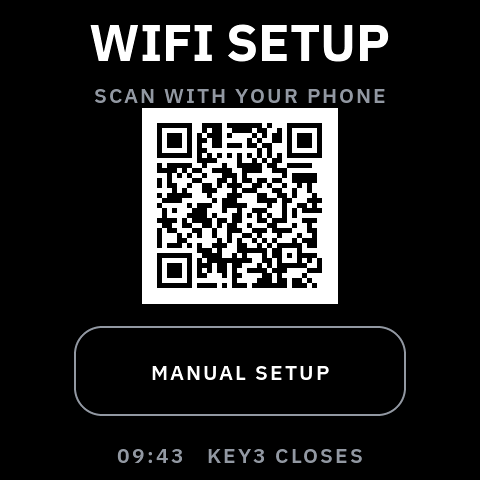
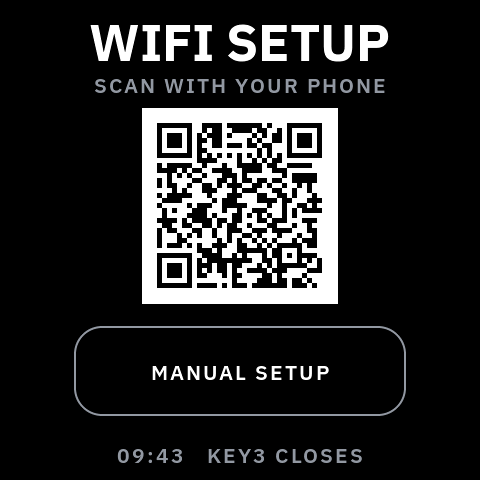
fix: raise Wi-Fi setup instruction

Changed region(s): [[0.1875, 0.1562, 0.8125, 0.2188]]

diff --git a/components/torget_wifi/wifi_setup_ui.c b/components/torget_wifi/wifi_setup_ui.c
@@ -38,7 +38,7 @@ extern const lv_font_t plex_ui_21;
  * it in test_wifi_onboarding_design.py. Keep these raw integer lines simple:
  * the validator deliberately parses them instead of trusting comments. */
 #define WIFI_OPEN_WORD_Y        24
-#define WIFI_OPEN_INSTRUCTION_Y 82
+#define WIFI_OPEN_INSTRUCTION_Y 72
 #define WIFI_OPEN_QR_X          142
 #define WIFI_OPEN_QR_Y          108
 #define WIFI_OPEN_QR_SIZE       196

diff --git a/test/test_wifi_onboarding_design.py b/test/test_wifi_onboarding_design.py
@@ -45,6 +45,7 @@ class WifiOnboardingDesignTests(unittest.TestCase):
             },
         )
         opened = design["open"]
+        self.assertEqual(opened["instructionY"], 72)
         self.assertEqual(
             set(opened),
             {
